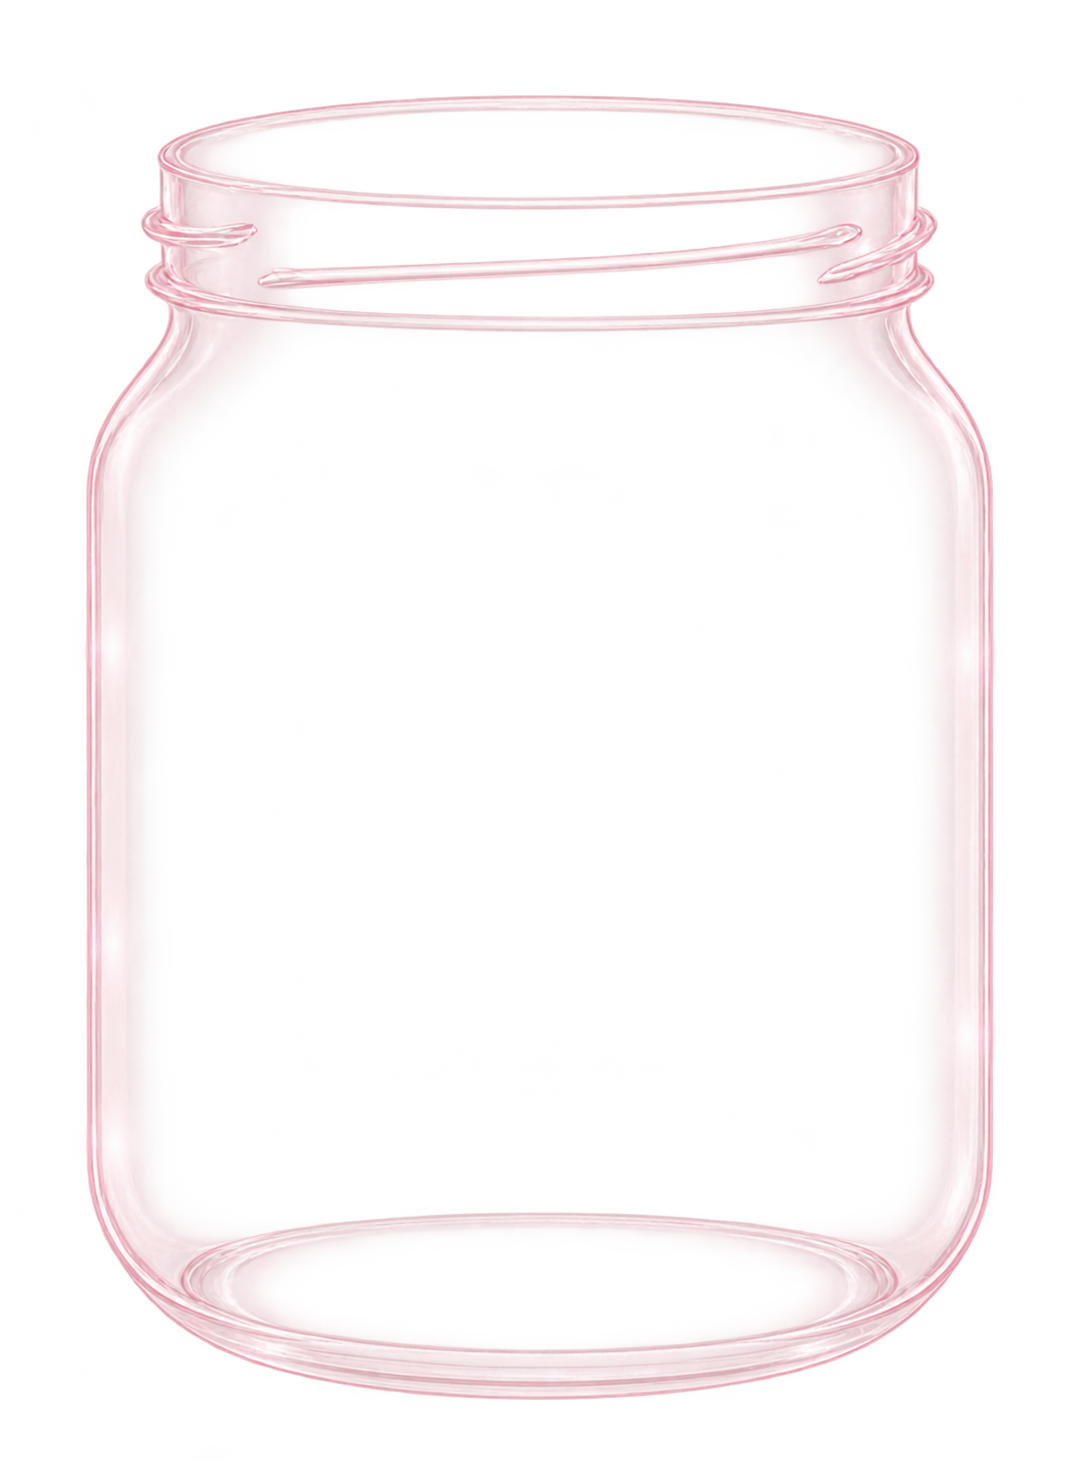
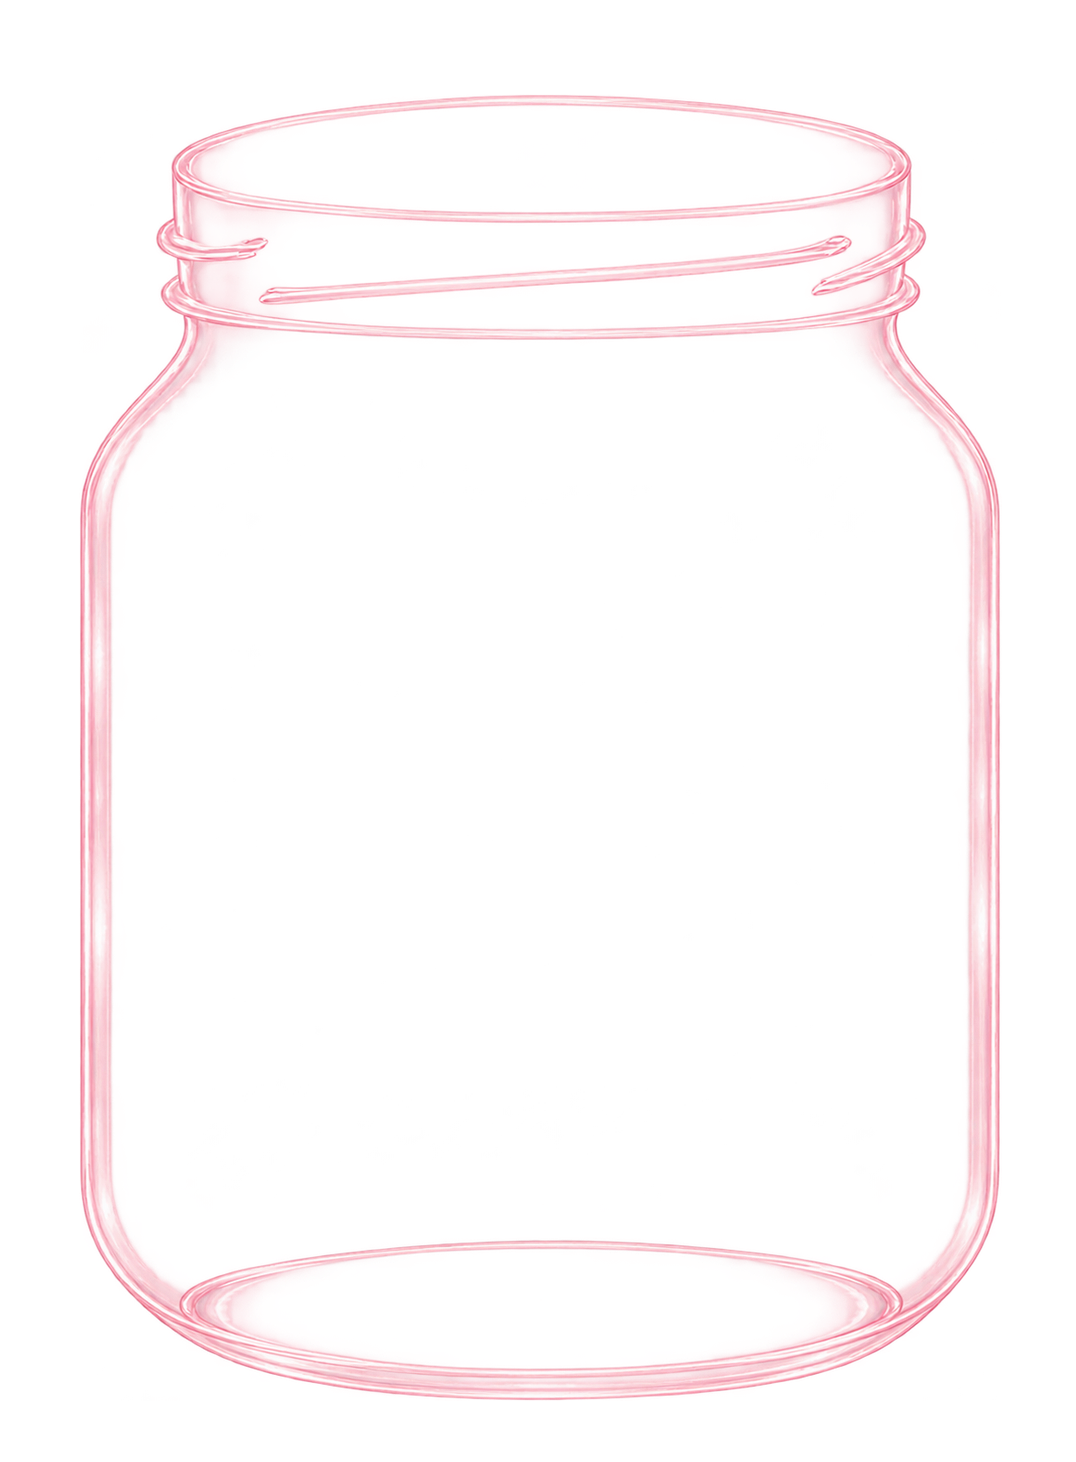
update jar tien 2

Changed region(s): [[0.0613, 0.0616, 0.9507, 0.9542]]

diff --git a/frontend/src/features/overlay/lib/jar-geometry.ts b/frontend/src/features/overlay/lib/jar-geometry.ts
@@ -106,19 +106,19 @@ export const JAR_PROFILES: readonly JarProfile[] = [
       scale: 1,
     },
     wall: {
-      neckY: 0,
-      transitionEndY: 108,
+      neckY: 80,
+      transitionEndY: 116,
       neckLeft: 72,
       neckRight: 248,
-      bodyLeft: 44,
-      bodyRight: 276,
+      bodyLeft: 42,
+      bodyRight: 278,
     },
     floor: {
       centerX: 160,
-      centerY: 330,
-      radiusLeft: 104,
-      radiusRight: 104,
-      radiusY: 28,
+      centerY: 326,
+      radiusLeft: 112,
+      radiusRight: 112,
+      radiusY: 30,
     },
   },
 ];
